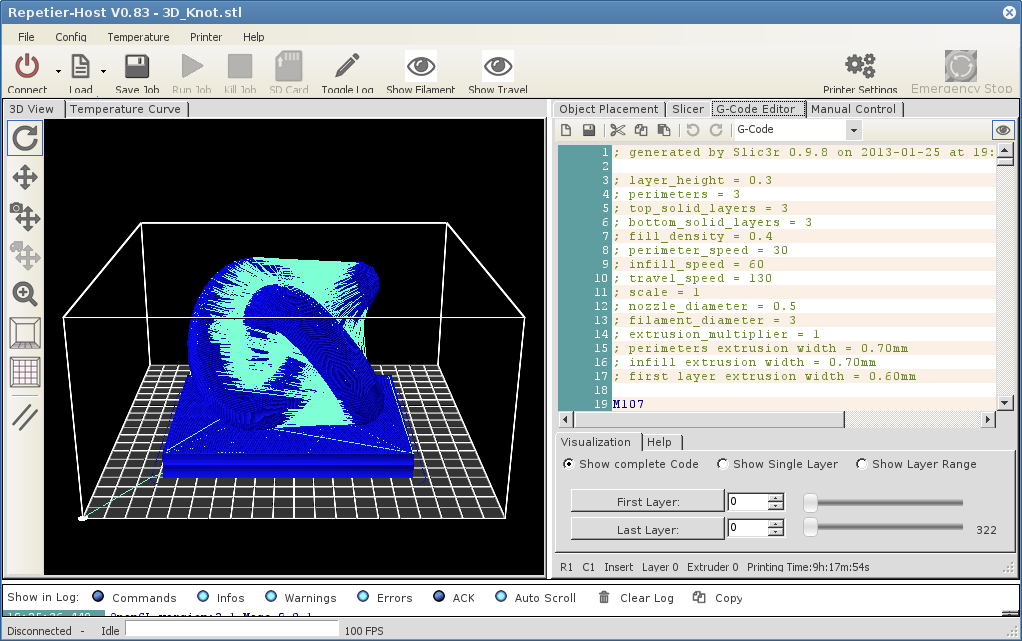
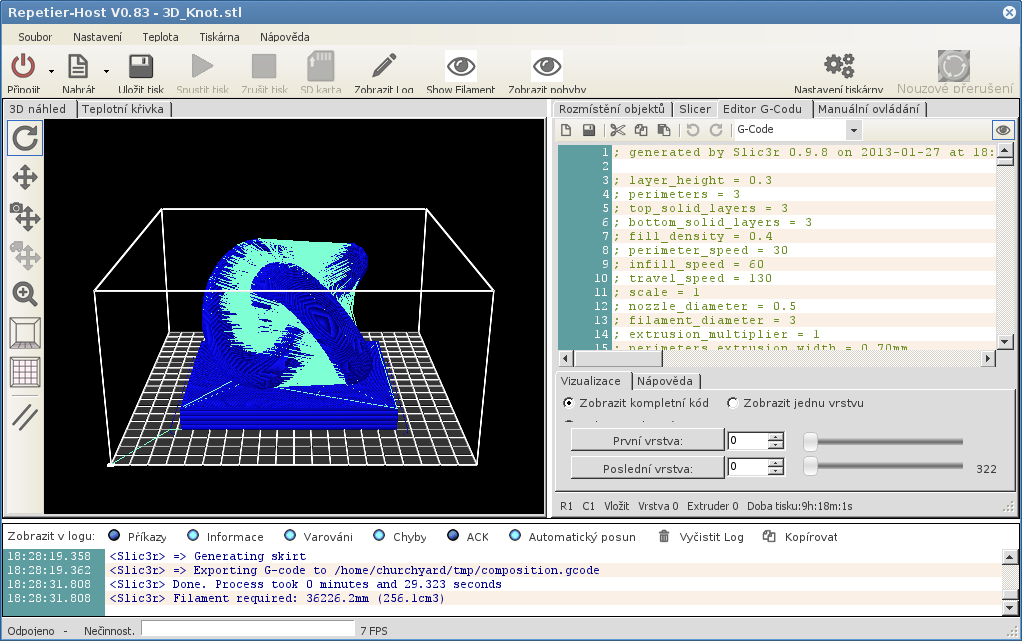
Added RepetierHost

diff --git a/aplikace.md b/aplikace.md
@@ -64,3 +64,10 @@ Printrun je sada aplikací na práci s tiskárnou. **Plater** je velmi primitivn
 {{ site.icons.ubuntu }} `sudo apt-add-repository ppa:richi-paraeasy/ppa && sudo apt-get update`
 
 {{ site.icons.ubuntu }} `sudo apt-get install pronsole/pronterface`
+
+### RepetierHost
+[![RepetierHost](images/screens/repetierhost_thumb.png)](images/screens/repetierhost.png) RepetierHost je aplikace, která nabízí kompletní workflow k tisku. Věc, kterou chcete vytisknout, nahrajete do aplikace, umístíte ji na 3D tiskovou plochu a necháte nařezat pomocí Slic3ru nebo Skeinforge přímo z aplikace. Výsledné instrukce pro tiskárnu (G-Code) můžete měnit přímo v aplikaci a prohlížet průběh tiskové hlavy ve 3D zobrazení. RepetierHost nabízí i českou lokalizaci.
+
+{{ site.icons.web }} [Web RepetierHostu](http://www.repetier.com/documentation/repetier-host/)
+
+{{ site.icons.fedora }} `sudo yum install RepetierHost`
